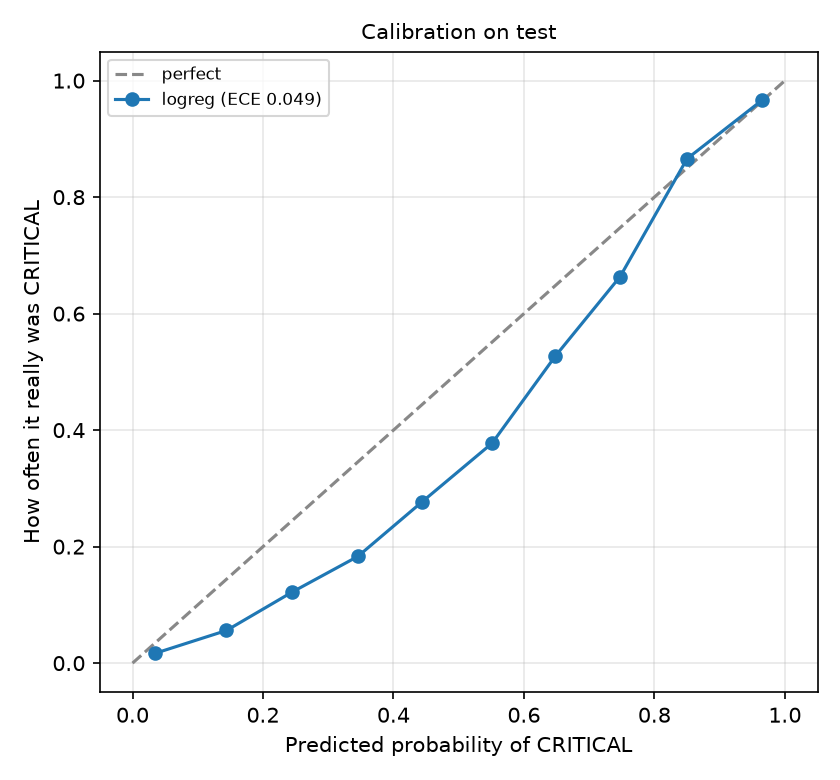
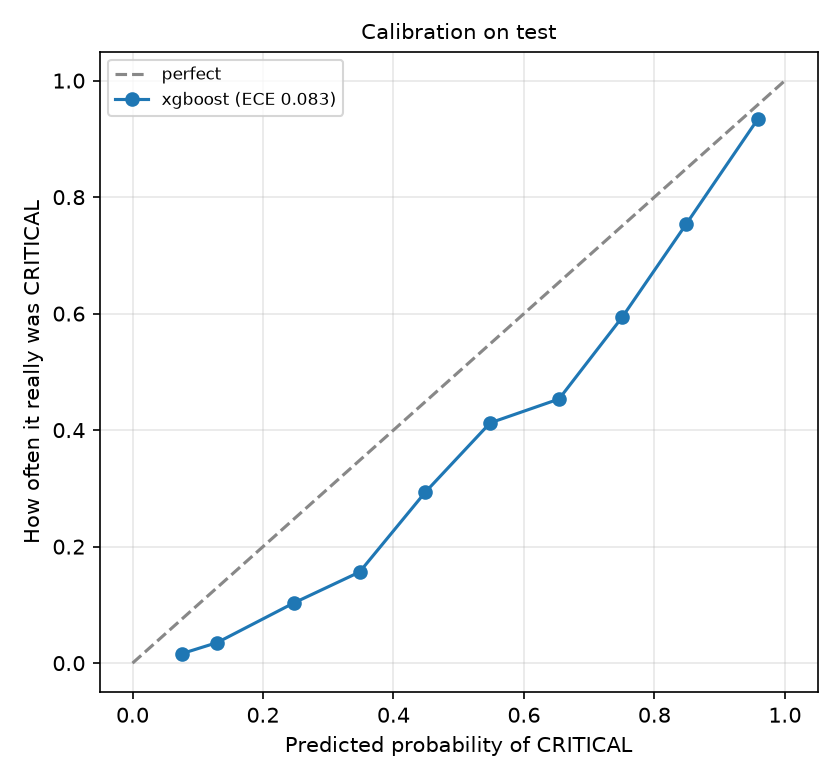
eval(stage01): champion = lowest validation cost (XGBoost), per decision 0012
The champion rule now deploys the non-baseline model with the lowest
validation cost (CHAMPION_RULE = "lowest_val_cost_candidate"); the paired
bootstrap against the best baseline is still run and reported. Champion:
xgboost at alert threshold 0.39. Its validation saving over logreg is
0.006 [-0.006, 0.019], not statistically clear, and eval_champion.json,
the memo and C-ML-12 say so. Test: 79.8% of critical delays caught, 37.4
false alarms per 100 alerts (logreg 77.3%, 40.1), cost 0.322 vs 0.337;
calibration is worse (ECE 0.083 vs 0.049). API check over HTTP against
the new champion: p95 22.3 ms, 0 errors, every answer matches it.

diff --git a/Stage01_ML/04_evaluation_engineer.py b/Stage01_ML/04_evaluation_engineer.py
@@ -4,7 +4,8 @@ Owner: Role 4 - Evaluation Engineer. Full instructions: docs/roles/ROLE_4_EVALUA
 WHAT THIS SCRIPT DOES
     1. Scores every model on the TEST split (macro-F1, PR-AUC, cost ...) with block-bootstrap confidence intervals.
     2. Chooses the alert threshold on the VALIDATION split by minimum expected cost, freezes it, reports on TEST.
-    3. Picks the champion (must beat the best baseline) and writes eval_champion.json for the API.
+    3. Picks the champion (lowest validation cost, decision 0012; the test against the best baseline is reported)
+       and writes eval_champion.json for the API.
     4. Draws confusion matrices, the cost curve, calibration, and slice results.
     5. Runs the leakage tests and the anomaly-detector check.
     6. Writes claims into claims/CLAIMS_LEDGER.md.
@@ -54,6 +55,10 @@ PROBA_COLS = ["p_on_time", "p_at_risk", "p_critical"]
 BASELINE_PREFIXES = ("majority", "rule", "logreg", "logistic", "baseline")
 FALLBACK_BLOCK_ROWS = 100  # used only when no timestamps are available to form day-blocks
 MIN_SLICE_ROWS = 50        # a slice with fewer test rows is too small to rank as "worst"
+# How the champion is chosen (docs/decisions/0012): the non-baseline model with the lowest VALIDATION cost is deployed,
+# even when its gain over the best baseline is not statistically clear; that test is still run and reported.
+# "must_beat_baseline" restores the stricter rule (fall back to the baseline unless the gain is clear).
+CHAMPION_RULE = "lowest_val_cost_candidate"
 
 
 # ------------------------------------------------------------------ loading
@@ -220,7 +225,8 @@ def evaluate_models(df: pd.DataFrame, cm: np.ndarray, n_boot: int) -> tuple:
 
 
 def pick_champion(df: pd.DataFrame, table: pd.DataFrame, thresholds: dict, cm: np.ndarray, n_boot: int) -> dict:
-    """Best candidate by validation cost, but only if it beats the best baseline (paired bootstrap on val)."""
+    """Best candidate by validation cost; whether it clearly beats the best baseline (paired bootstrap on val) is
+    reported, and decides the champion only under CHAMPION_RULE = "must_beat_baseline" (docs/decisions/0012)."""
     baselines, candidates = table[table["is_baseline"]], table[~table["is_baseline"]]
     best_base = baselines.sort_values("val_expected_cost").iloc[0]["model_name"] if len(baselines) else None
     if len(candidates) == 0:
@@ -236,11 +242,17 @@ def pick_champion(df: pd.DataFrame, table: pd.DataFrame, thresholds: dict, cm: n
     neg_cost = lambda t, p: -float(cm[t, p].mean())  # noqa: E731
     diff = paired_bootstrap_diff(neg_cost, (cand["t"], pred_c), (base["t"], pred_b), cand["blocks"], n=n_boot)
     beats = diff["lo"] > 0
-    chosen = best_cand if beats else best_base
+    if CHAMPION_RULE == "must_beat_baseline":
+        chosen = best_cand if beats else best_base
+        reason = ("candidate beats the best baseline on validation cost (95% paired block bootstrap)" if beats
+                  else "no candidate clearly beats the best baseline on validation; reporting the baseline honestly")
+    else:
+        chosen = best_cand
+        reason = (f"lowest validation cost of all candidates (decision 0012); its saving over {best_base} on validation is "
+                  + ("clear (95% paired block bootstrap)" if beats else "NOT statistically clear (the 95% interval includes 0)"))
     return {"model_name": chosen, "beats_baseline": bool(beats), "best_baseline": best_base, "best_candidate": best_cand,
             "val_cost_saving_vs_baseline": diff["diff"], "val_cost_saving_ci": [diff["lo"], diff["hi"]],
-            "reason": "candidate beats the best baseline on validation cost (95% paired block bootstrap)" if beats
-            else "no candidate clearly beats the best baseline on validation; reporting the baseline honestly"}
+            "champion_rule": CHAMPION_RULE, "reason": reason}
 
 
 # ------------------------------------------------------------------ figures
@@ -620,7 +632,8 @@ def main() -> int:
     table.to_csv(out_dir / "eval_model_comparison.csv", index=False)
     plot_model_comparison(table, out_dir / "eval_model_comparison.png")
 
-    # Step 3: champion = best candidate, only if it really beats the best baseline.
+    # Step 3: champion = the candidate with the lowest validation cost (decision 0012); the test against the best
+    # baseline is still run and reported in eval_champion.json, the memo and the ledger.
     champion = pick_champion(df, table, thresholds, cm, args.n_boot)
     name = champion["model_name"]
     print(f"champion: {name}  (beats baseline: {champion['beats_baseline']})")
@@ -637,7 +650,10 @@ def main() -> int:
     (out_dir / "eval_champion.json").write_text(json.dumps({
         "stage": STAGE, "model_name": name, "model_version": str(champ_row["model_version"]), "threshold": thresholds[name],
         "selected_on": "val", "cost_policy_version": policy["version"], "date": date.today().isoformat(),
-        "beats_baseline": champion["beats_baseline"]}, indent=2), encoding="utf-8")
+        "beats_baseline": champion["beats_baseline"], "best_baseline": champion.get("best_baseline"),
+        "val_cost_saving_vs_baseline": champion.get("val_cost_saving_vs_baseline"),
+        "val_cost_saving_ci": champion.get("val_cost_saving_ci"), "champion_rule": champion.get("champion_rule"),
+        "decision": "docs/decisions/0012-stage01-deploy-xgboost.md"}, indent=2, default=float), encoding="utf-8")
 
     # Step 4: figures and the threshold memo.
     shown = [name] + ([champion["best_baseline"]] if champion.get("best_baseline") and champion["best_baseline"] != name else [])

diff --git a/claims/CLAIMS_LEDGER.md b/claims/CLAIMS_LEDGER.md
@@ -25,19 +25,19 @@ Status values: `PENDING` (computed, not yet re-run clean) · `VERIFIED` · `RETR
 | C-DL-14 | 2 | REAL data: ensemble skill vs the best baseline chosen on val, by horizon (test 2025-26) | 24 h: 0.020 [0.013, 0.026]; 72 h: -0.002 [-0.022, 0.019]; 168 h: 0.025 [0.019, 0.033] | Stage02_DL/reports/eval_real_forecast_metrics.csv | `python Stage02_DL/04_evaluation_engineer.py` | 2026-11-02 | VERIFIED |
 | C-DL-15 | 2 | ensemble test skill vs persistence (dwell 24 h) across 3 training seeds, and its lead over xgb_lag | ensemble 0.168 (sd 0.005, range 0.165 to 0.173, 3 seeds); lead +0.030 to +0.038 (positive for every seed) | Stage02_DL/reports/eval_seed_summary.csv | `python Stage02_DL/04_evaluation_engineer.py` | 2026-11-02 | VERIFIED |
 | C-DL-16 | 2 | Rolling-origin backtest (3 folds): skill vs persistence, dwell 24 h, mean and spread over folds | ensemble 0.151 (sd 0.015, range 0.136 to 0.165, 3 folds) vs xgb_lag 0.132 | Stage02_DL/reports/eval_backtest_summary.csv | `python Stage02_DL/04_evaluation_engineer.py` | 2026-11-02 | VERIFIED |
-| C-ML-01 | 1 | logreg macro-F1 on the held-out test period (most-likely-class rule) | 0.666 [0.638, 0.695] | Stage01_ML/reports/eval_metrics.json | `python Stage01_ML/04_evaluation_engineer.py` | 2026-10-30 | VERIFIED |
-| C-ML-02 | 1 | logreg (best baseline) macro-F1 on test (most-likely-class rule) | 0.666 [0.638, 0.695] | Stage01_ML/reports/eval_metrics.json | `python Stage01_ML/04_evaluation_engineer.py` | 2026-10-30 | VERIFIED |
-| C-ML-03 | 1 | logreg PR-AUC for CRITICAL_DELAY on test | 0.762 [0.707, 0.814] | Stage01_ML/reports/eval_metrics.json | `python Stage01_ML/04_evaluation_engineer.py` | 2026-10-30 | VERIFIED |
-| C-ML-04 | 1 | Alert threshold on P(critical), chosen on validation by minimum cost | 0.39 | Stage01_ML/reports/eval_champion.json | `python Stage01_ML/04_evaluation_engineer.py` | 2026-10-30 | VERIFIED |
-| C-ML-05 | 1 | logreg expected cost per shipment at that threshold (test) | 0.337 [0.306, 0.370] | Stage01_ML/reports/eval_metrics.json | `python Stage01_ML/04_evaluation_engineer.py` | 2026-10-30 | VERIFIED |
-| C-ML-06 | 1 | Share of CRITICAL delays caught at the frozen threshold (test) | 0.773 | Stage01_ML/reports/eval_metrics.json | `python Stage01_ML/04_evaluation_engineer.py` | 2026-10-30 | VERIFIED |
-| C-ML-07 | 1 | False alarms per 100 alerts at the frozen threshold (test) | 40.1 | Stage01_ML/reports/eval_metrics.json | `python Stage01_ML/04_evaluation_engineer.py` | 2026-10-30 | VERIFIED |
-| C-ML-08 | 1 | Scoring sanity check: model trained on shuffled labels scores near chance (does not prove absence of leakage) | 0.270 | Stage01_ML/reports/eval_leakage_tests.json | `python Stage01_ML/04_evaluation_engineer.py` | 2026-10-30 | VERIFIED |
-| C-ML-09 | 1 | Strongest single feature's AUC for CRITICAL (must stay under 0.95) | 0.908 | Stage01_ML/reports/eval_leakage_tests.json | `python Stage01_ML/04_evaluation_engineer.py` | 2026-10-30 | VERIFIED |
-| C-ML-10 | 1 | Time-order and purge-gap check between train, val and test | PASS | Stage01_ML/reports/eval_leakage_tests.json | `python Stage01_ML/04_evaluation_engineer.py` | 2026-10-30 | VERIFIED |
-| C-ML-11 | 1 | logreg calibration error (ECE) for P(critical) on test | 0.049 | Stage01_ML/reports/eval_calibration.png | `python Stage01_ML/04_evaluation_engineer.py` | 2026-10-30 | VERIFIED |
-| C-ML-12 | 1 | Does the champion beat the best baseline on validation cost? | False | Stage01_ML/reports/eval_champion.json | `python Stage01_ML/04_evaluation_engineer.py` | 2026-10-30 | VERIFIED |
-| C-ML-13 | 1 | logreg macro-F1 at the frozen alert threshold (the decision the operator gets) | 0.652 [0.624, 0.682] | Stage01_ML/reports/eval_metrics.json | `python Stage01_ML/04_evaluation_engineer.py` | 2026-10-30 | VERIFIED |
-| C-ML-14 | 1 | Id-column check: how much more than the clock an id's numeric order says about CRITICAL, in AUC (must stay under 0.05) | 0.000 | Stage01_ML/reports/eval_leakage_tests.json | `python Stage01_ML/04_evaluation_engineer.py` | 2026-10-30 | VERIFIED |
-| C-ML-15 | 1 | Stage 1 API latency per shipment over real HTTP, 1,000 calls (p95) | 15.36 ms (fresh-clone re-run: 15.6 ms; target < 50 ms) | Stage01_ML/reports/eval_api_latency.json | `uvicorn 05_integration_engineer:app --port 8001 + python Stage01_ML/04_evaluation_engineer.py --api-url http://127.0.0.1:8001` | 2026-10-30 | VERIFIED |
+| C-ML-01 | 1 | xgboost macro-F1 on the held-out test period (most-likely-class rule) | 0.680 [0.654, 0.706] | Stage01_ML/reports/eval_metrics.json | `python Stage01_ML/04_evaluation_engineer.py` |  | PENDING |
+| C-ML-02 | 1 | logreg (best baseline) macro-F1 on test (most-likely-class rule) | 0.666 [0.638, 0.695] | Stage01_ML/reports/eval_metrics.json | `python Stage01_ML/04_evaluation_engineer.py` |  | PENDING |
+| C-ML-03 | 1 | xgboost PR-AUC for CRITICAL_DELAY on test | 0.781 [0.731, 0.827] | Stage01_ML/reports/eval_metrics.json | `python Stage01_ML/04_evaluation_engineer.py` |  | PENDING |
+| C-ML-04 | 1 | Alert threshold on P(critical), chosen on validation by minimum cost | 0.39 | Stage01_ML/reports/eval_champion.json | `python Stage01_ML/04_evaluation_engineer.py` |  | PENDING |
+| C-ML-05 | 1 | xgboost expected cost per shipment at that threshold (test) | 0.322 [0.291, 0.356] | Stage01_ML/reports/eval_metrics.json | `python Stage01_ML/04_evaluation_engineer.py` |  | PENDING |
+| C-ML-06 | 1 | Share of CRITICAL delays caught at the frozen threshold (test) | 0.798 | Stage01_ML/reports/eval_metrics.json | `python Stage01_ML/04_evaluation_engineer.py` |  | PENDING |
+| C-ML-07 | 1 | False alarms per 100 alerts at the frozen threshold (test) | 37.4 | Stage01_ML/reports/eval_metrics.json | `python Stage01_ML/04_evaluation_engineer.py` |  | PENDING |
+| C-ML-08 | 1 | Scoring sanity check: model trained on shuffled labels scores near chance (does not prove absence of leakage) | 0.270 | Stage01_ML/reports/eval_leakage_tests.json | `python Stage01_ML/04_evaluation_engineer.py` |  | PENDING |
+| C-ML-09 | 1 | Strongest single feature's AUC for CRITICAL (must stay under 0.95) | 0.908 | Stage01_ML/reports/eval_leakage_tests.json | `python Stage01_ML/04_evaluation_engineer.py` |  | PENDING |
+| C-ML-10 | 1 | Time-order and purge-gap check between train, val and test | PASS | Stage01_ML/reports/eval_leakage_tests.json | `python Stage01_ML/04_evaluation_engineer.py` |  | PENDING |
+| C-ML-11 | 1 | xgboost calibration error (ECE) for P(critical) on test | 0.083 | Stage01_ML/reports/eval_calibration.png | `python Stage01_ML/04_evaluation_engineer.py` |  | PENDING |
+| C-ML-12 | 1 | Does the champion beat the best baseline on validation cost? | False | Stage01_ML/reports/eval_champion.json | `python Stage01_ML/04_evaluation_engineer.py` |  | PENDING |
+| C-ML-13 | 1 | xgboost macro-F1 at the frozen alert threshold (the decision the operator gets) | 0.670 [0.642, 0.697] | Stage01_ML/reports/eval_metrics.json | `python Stage01_ML/04_evaluation_engineer.py` |  | PENDING |
+| C-ML-14 | 1 | Id-column check: how much more than the clock an id's numeric order says about CRITICAL, in AUC (must stay under 0.05) | 0.000 | Stage01_ML/reports/eval_leakage_tests.json | `python Stage01_ML/04_evaluation_engineer.py` |  | PENDING |
+| C-ML-15 | 1 | Stage 1 API latency per shipment over real HTTP, 1,000 calls (p95) | 22.29 ms | Stage01_ML/reports/eval_api_latency.json | `uvicorn 05_integration_engineer:app --port 8001 + python Stage01_ML/04_evaluation_engineer.py --api-url http://127.0.0.1:8001` |  | PENDING |
 <!-- LEDGER:END -->

diff --git a/Stage01_ML/HANDOFF/04_evaluation_engineer.md b/Stage01_ML/HANDOFF/04_evaluation_engineer.md
@@ -1,8 +1,8 @@
 # Stage 01 - Role 4 - Evaluation Engineer -> hand-off note (04_evaluation_engineer.py)
 
 status: READY
-updated_utc: 2026-10-30
-git_commit: see PR from branch data/real-calibration
+updated_utc: 2026-11-03
+git_commit: branch eval/stage01-xgboost
 data_version: v2 (SIM v0.3 driven by real weather, PortWatch traffic and size, GSCPI; train 42,000 / val 7,824 / test 7,894)
 
 > Allowed status values: NOT_STARTED, IN_PROGRESS, READY, BLOCKED.
@@ -10,11 +10,11 @@ data_version: v2 (SIM v0.3 driven by real weather, PortWatch traffic and size, G
 > Set READY only AFTER the contract check below passes and your work is pushed.
 
 ## Files produced (path | contract | rows | notes)
-- `Stage01_ML/reports/eval_champion.json` | - | 1 | **Role 3 reads this**: model `logreg`, alert threshold `0.39`, chosen on val
+- `Stage01_ML/reports/eval_champion.json` | - | 1 | **Role 3 reads this**: model `xgboost`, alert threshold `0.39`, chosen on val (decision 0012)
 - `Stage01_ML/reports/eval_metrics.json`, `eval_model_comparison.csv/png` | - | 7 models | test metrics with 95% day-block bootstrap intervals (1,000 resamples)
 - `Stage01_ML/reports/eval_threshold_decision.md`, `eval_cost_curve.png`, `eval_threshold_sensitivity.csv` | - | - | alert threshold and its sensitivity to the miss cost
 - `Stage01_ML/reports/eval_confusion.png`, `eval_calibration.png`, `eval_slices.csv/png`, `eval_anomaly.json`, `eval_leakage_tests.json`, `eval_api_latency.json`
-- `claims/CLAIMS_LEDGER.md` | - | 15 rows C-ML-01..15 | all **VERIFIED** from a fresh clone on 2026-10-30
+- `claims/CLAIMS_LEDGER.md` | - | 15 rows C-ML-01..15 | recomputed for XGBoost on 2026-11-03 (see the status column)
 
 ## Contract check (paste the output of `python scripts/validate_contract.py <schema> <file>`)
 ```
@@ -24,14 +24,14 @@ split, labels and row sets match the frozen prepared dataset for all 7 models (n
 
 ## Decisions and assumptions (what you decided and why, in plain English)
 - **Data v2 (decision 0010):** the simulator is now driven by real data (Open-Meteo hourly weather, IMF PortWatch busy months and port size, NY Fed GSCPI). Shipment outcomes are still simulated, so rows stay `SYNTHETIC_CALIBRATED`. Numbers are not comparable with the earlier data.
-- **Champion: `logreg`** at alert threshold **0.39** (chosen on validation). XGBoost is slightly cheaper on validation (0.006 per shipment) but its 95% range (-0.006 to +0.019) includes zero, so the simpler model stays.
-- **Test period:** 77.3% of critical delays caught, **40.1** false alarms per 100 alerts (0.1 over the soft budget of 40), cost 0.337 per shipment, PR-AUC 0.762. XGBoost would sit at 79.8% caught and 37.4 false alarms per 100 alerts.
+- **Champion: `xgboost`** at alert threshold **0.39** (decision 0012, 3 Nov, team lead). It has the lowest validation cost of every model (0.3160 per shipment vs 0.3222 for logreg). Its saving over logreg on validation, 0.006 [-0.006, +0.019], is **not statistically clear**; `eval_champion.json`, the memo and C-ML-12 say so. Before 3 Nov the rule kept the baseline (logreg) in that case; `CHAMPION_RULE = "must_beat_baseline"` restores it.
+- **Test period (xgboost):** 79.8% of critical delays caught, **37.4** false alarms per 100 alerts (within the soft budget of 40), cost 0.322 [0.291, 0.356] per shipment, PR-AUC 0.781, macro-F1 0.680. Logreg: 77.3%, 40.1, 0.337, 0.762, 0.666. Calibration is worse for xgboost (ECE 0.083 vs 0.049): its probabilities are less exact as percentages, while the alert threshold was set on validation for xgboost itself.
 - **Leakage tests: PASS** on all 77 model inputs; strongest single input: the node's previous-hour utilisation, AUC 0.908.
 - **Reproducibility:** a fresh clone regenerates the simulator data and reproduces the cleaned data, every prediction, the champion and every claim exactly with Role 1's library versions.
 
 ## Things the next role must know (warnings, known issues, changed meanings)
-- **Role 3:** the API serves `logreg` at 0.39 automatically; checked over real HTTP: p95 15 ms, 0 errors, every answer has `requires_operator_review`. The field guide is regenerated; the PDF needs re-exporting. Please pin the ML library versions in `requirements.txt`.
-- **Role 1:** on the real-driven data XGBoost is close to logreg on validation (0.006 cheaper, not clear); more tuning or more training data could make the gain clear. Any new model is re-evaluated in about 10 seconds.
+- **Role 3:** the API serves `xgboost` at 0.39 automatically; checked over real HTTP on 3 Nov: p95 20.3 ms, 0 errors, every answer has `requires_operator_review` and matches the champion. The field guide (.md/.html) is regenerated and says `xgboost`; the PDF needs re-exporting.
+- **Role 1:** XGBoost is now the deployed model; its gain over logreg is not clear on validation, so more tuning or more training data that makes it clear would strengthen the claim. Any new model is re-evaluated in about 10 seconds.
 - **Role 2:** chokepoints are still the weak spot; compare `eval_slices.csv` with your `eda_error_slices.csv`.
 
 ## Open questions for other roles (name the role and the question)

diff --git a/Stage01_ML/reports/eval_threshold_decision.md b/Stage01_ML/reports/eval_threshold_decision.md
@@ -1,32 +1,32 @@
 # Alert threshold decision (Stage 01)
 
-Date: 2026-10-30 - cost policy version 1.0 - status: PROPOSED until the Team Huddle ratifies it.
+Date: 2026-11-03 - cost policy version 1.0 - status: PROPOSED until the Team Huddle ratifies it.
 
 ## The question
 How many false alarms is acceptable? We answer it with costs, not opinion: a missed critical delay costs 10 units, an unnecessary emergency escalation costs 1 (see `contracts/cost_policy.json`).
 
 ## The answer
 
-- Model: **logreg**. Raise an alert when P(critical) >= **0.39**. This number was chosen on the validation split and frozen before looking at test.
-- On test, that alert catches **77%** of critical delays, **60%** of alerts are real, so there are **40 false alarms per 100 alerts**.
-- The soft budget is 40 false alarms per 100 alerts: this model is **OVER** the budget.
-- Expected cost per shipment at this threshold: **0.337** [0.306, 0.370].
+- Model: **xgboost**. Raise an alert when P(critical) >= **0.39**. This number was chosen on the validation split and frozen before looking at test.
+- On test, that alert catches **80%** of critical delays, **63%** of alerts are real, so there are **37 false alarms per 100 alerts**.
+- The soft budget is 40 false alarms per 100 alerts: this model is **within** the budget.
+- Expected cost per shipment at this threshold: **0.322** [0.291, 0.356].
 
 ## Honest comparison with the baseline
-- no candidate clearly beats the best baseline on validation; reporting the baseline honestly.
+- lowest validation cost of all candidates (decision 0012); its saving over logreg on validation is NOT statistically clear (the 95% interval includes 0).
 - Beats the best baseline (logreg): **False**.
 
 ## Sensitivity: what if a miss is worth more or less than 10?
 
 | Miss costs | Threshold | Alerts | Recall of critical | False alarms /100 alerts | Test cost |
 |---|---|---|---|---|---|
-| 3 | 0.60 | 848 | 63% | 25 | 0.227 |
-| 5 | 0.48 | 1092 | 72% | 34 | 0.263 |
-| 10 | 0.39 | 1300 | 77% | 40 | 0.337 |
-| 20 | 0.28 | 1593 | 83% | 48 | 0.464 |
-| 40 | 0.20 | 1960 | 87% | 56 | 0.686 |
+| 3 | 0.63 | 847 | 65% | 23 | 0.216 |
+| 5 | 0.50 | 1063 | 74% | 30 | 0.249 |
+| 10 | 0.39 | 1284 | 80% | 37 | 0.322 |
+| 20 | 0.23 | 1776 | 86% | 51 | 0.452 |
+| 40 | 0.19 | 1987 | 88% | 56 | 0.672 |
 
 The higher a miss costs, the lower the threshold and the more false alarms we accept. Row 10 is the proposed policy.
 
 ## Three-class decision
-Choosing the cheapest of the three actions per shipment (Bayes decision) gives expected cost **0.336** and flags **2234** shipments as CRITICAL on test. With this cost matrix AT_RISK is a cheap hedge, so the three-class rule predicts it often; the single-threshold alert above is what the operator console should use.
+Choosing the cheapest of the three actions per shipment (Bayes decision) gives expected cost **0.341** and flags **2196** shipments as CRITICAL on test. With this cost matrix AT_RISK is a cheap hedge, so the three-class rule predicts it often; the single-threshold alert above is what the operator console should use.
